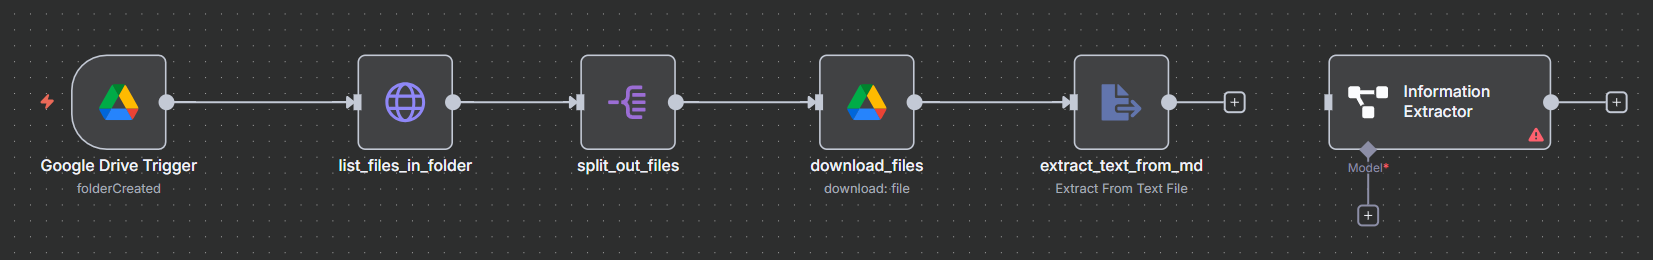
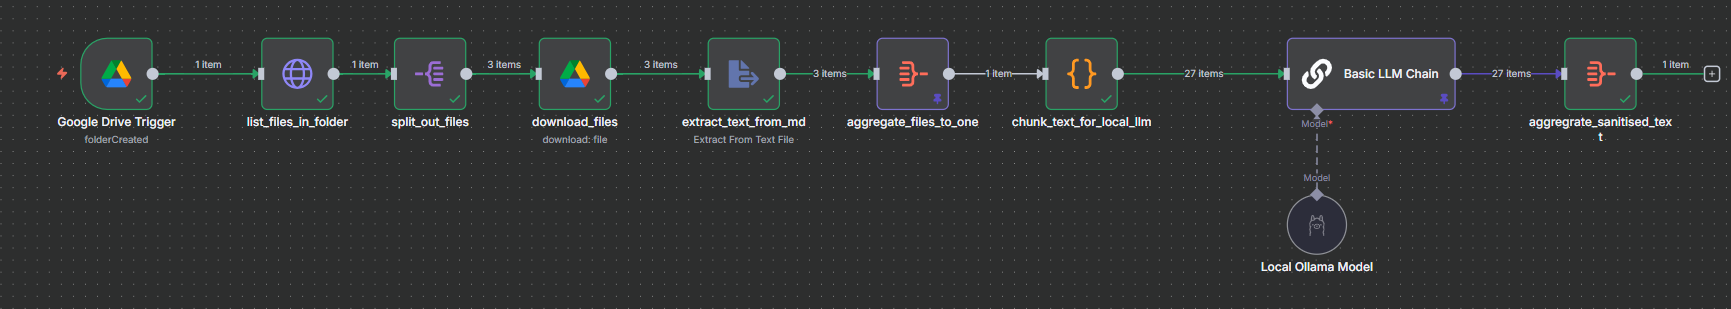
update readme and workflow diagram

diff --git a/readMe.md b/readMe.md
@@ -1,12 +1,21 @@
 ## Blog Generator Workflow created via N8N.
+1. Setup **n8n** locally following the documentation available [here](https://docs.n8n.io/hosting/installation/docker/).
+2. Then create a docker network using `docker network create ai-blog-net` to be shared by the workflow and ollama docker.
+3. Add the **ai-blog-net** network to the ollama docker compose file, as well as the n8n docker file.
+4. Can change the local model downloaded from ollama via:
+    - `OLLAMA_MODEL=llama3.1` in the enviroment key.
 
-Nodes used
+### Workflow Diagram
+![current n8n flow](./img/workflow.png)
+
+### Nodes used
 - Google drive trigger
 - HTTP request
 - Split out
 - Google drive download file
 - Extract from text file
+- Aggregate
+- Python custom script
+- Basic LLM chain connected to a locally hosted Ollama model
 
 
-Workflow Digram
-![current n8n flow](./img/workflow.png)
